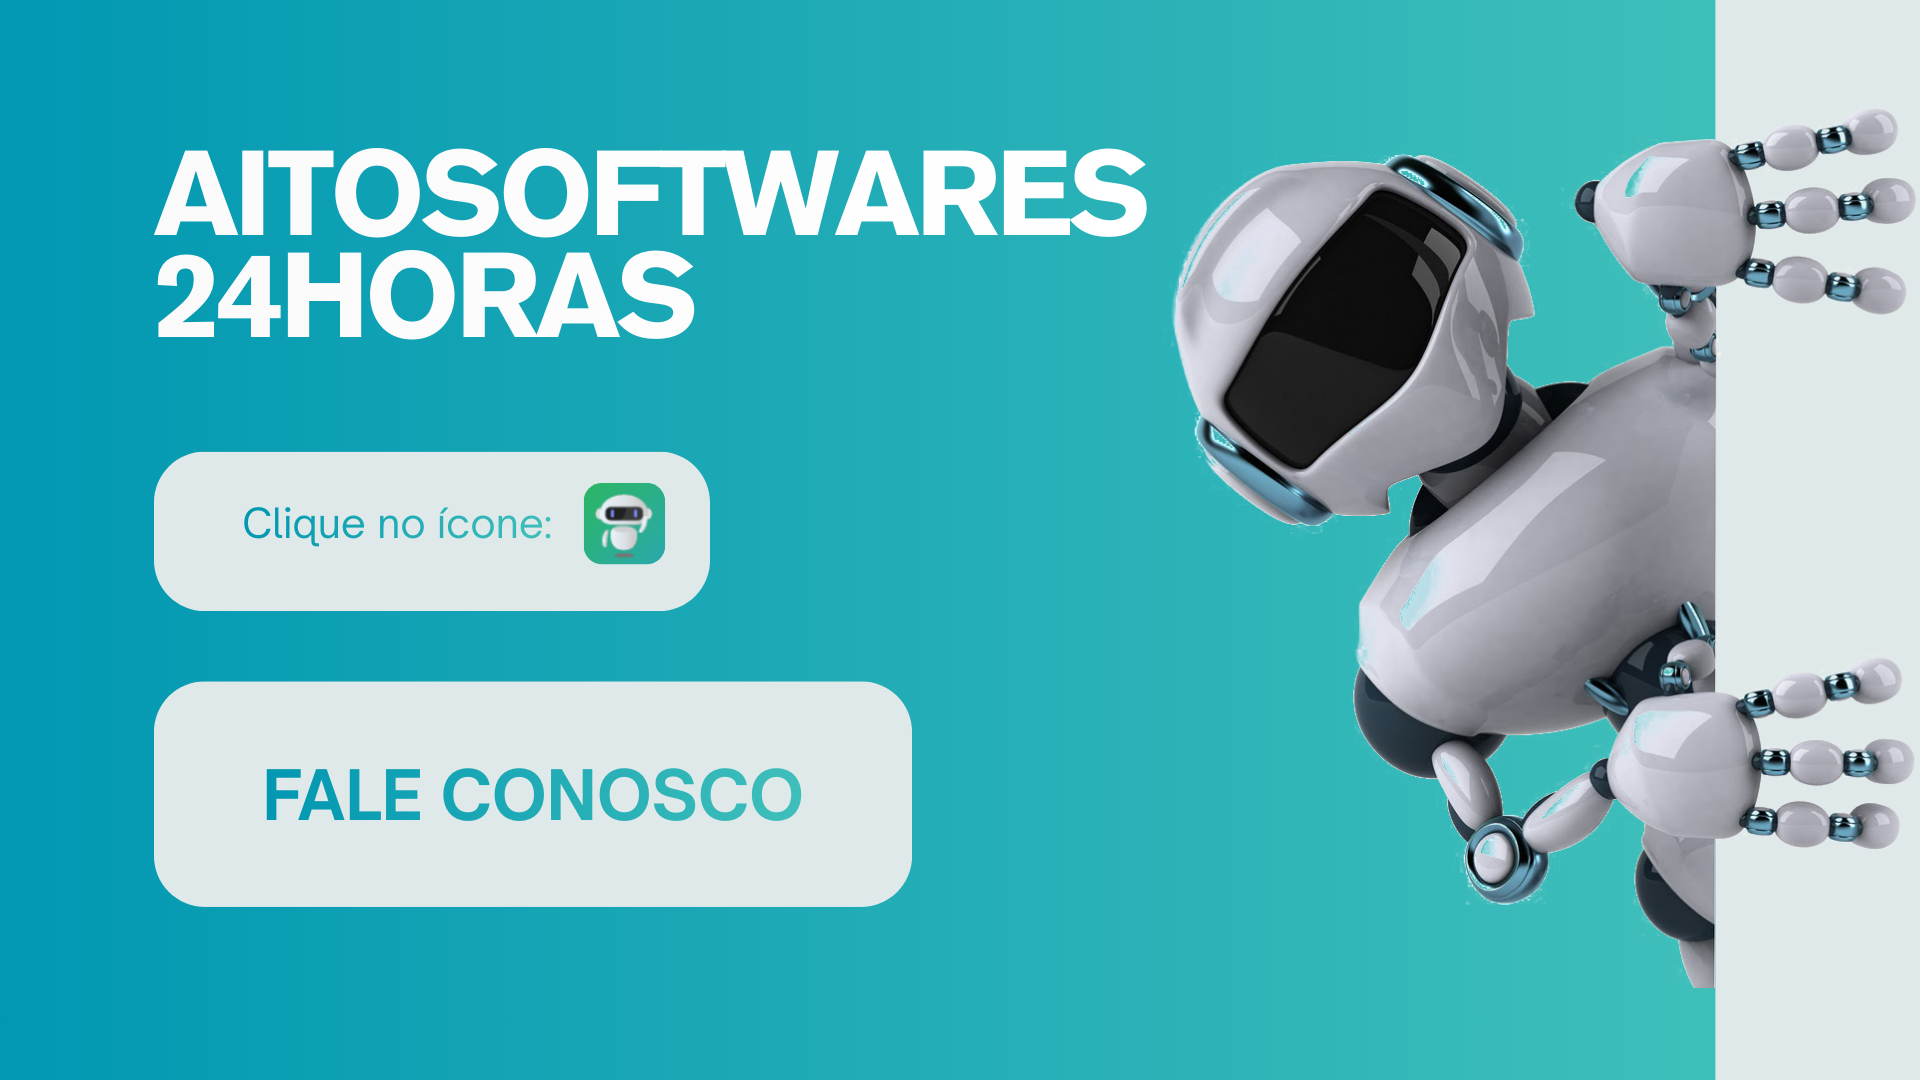
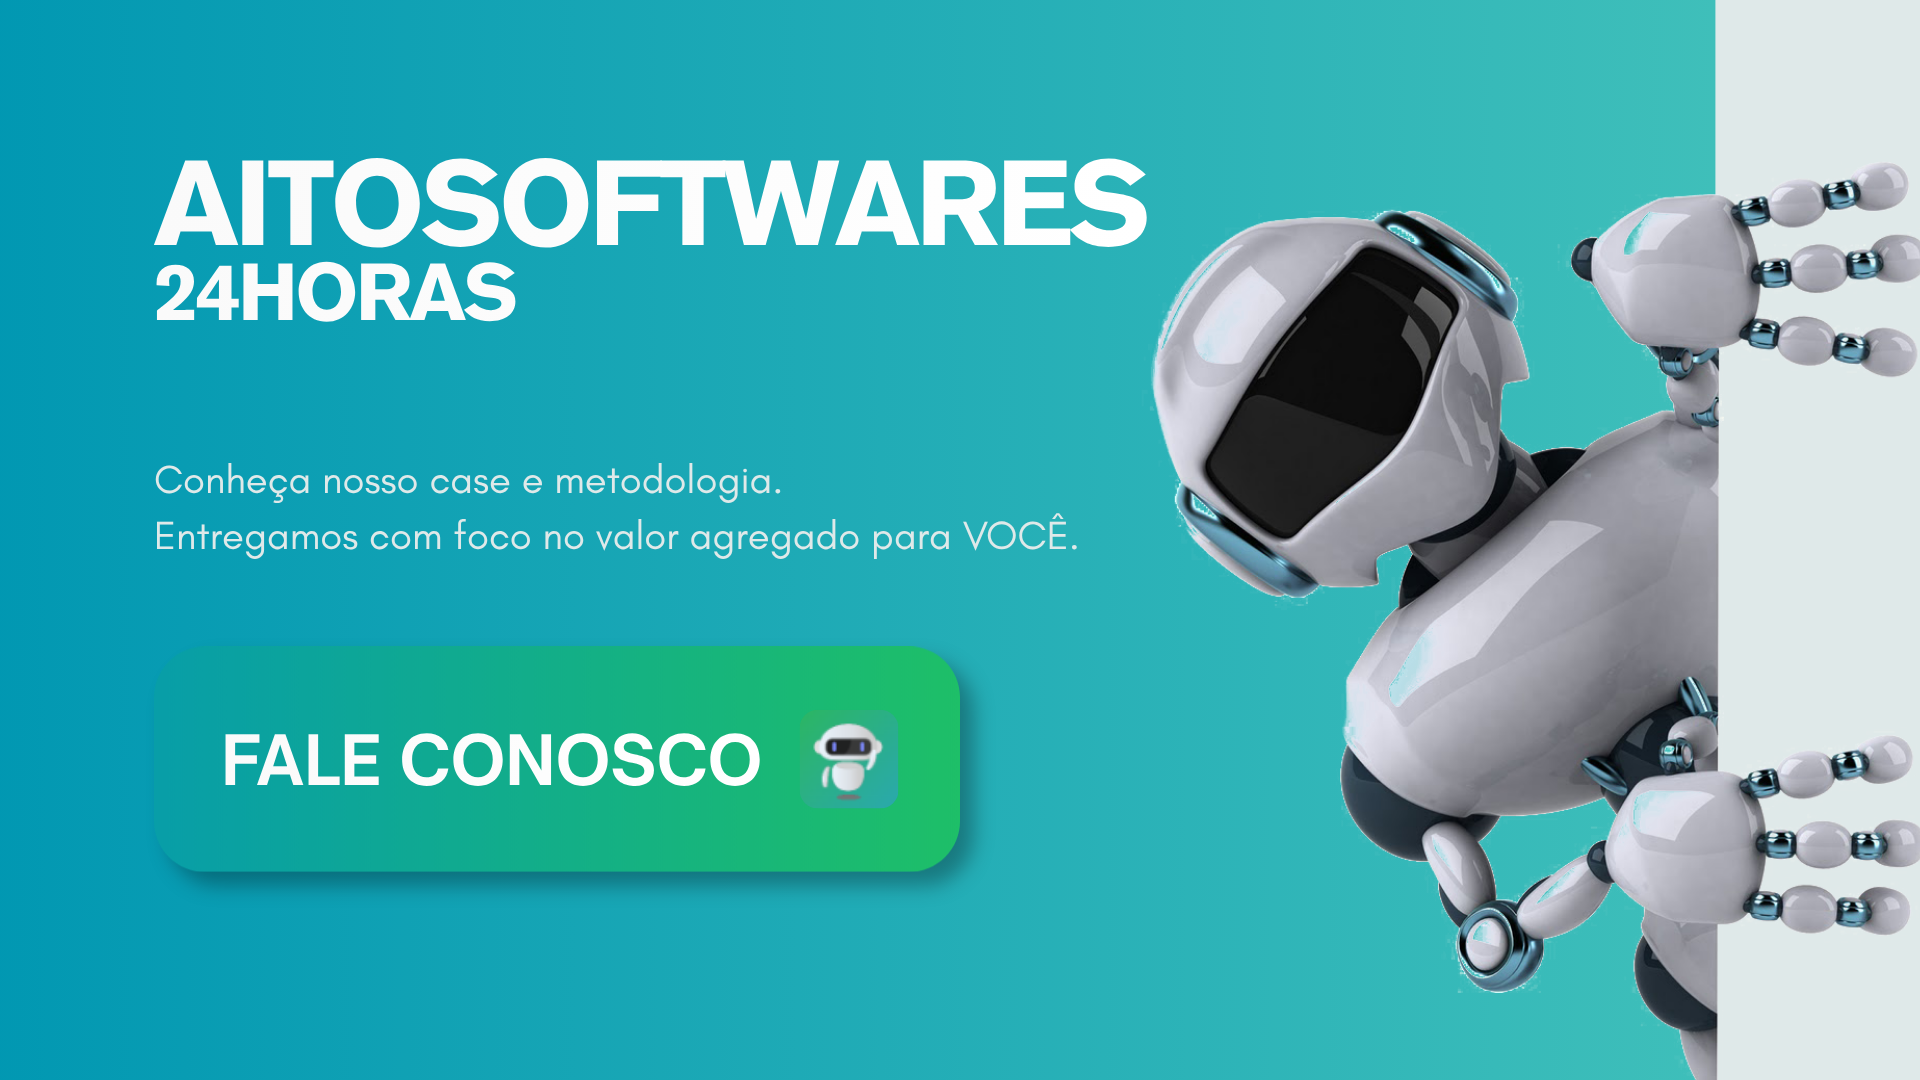
Update landing

diff --git a/src/layouts/MainLayout.vue b/src/layouts/MainLayout.vue
@@ -1,13 +1,13 @@
 <template>
-  <q-layout view="lHh Lpr lFf" class="ait-root">
+  <q-layout view="lHh Lpr lFf" class="ait-root ">
     <!-- HEADER (minimal, squared) -->
     <q-header elevated class="ait-header">
       <div class="ait-wrap">
         <div class="row items-center justify-between q-py-sm">
           <!-- Brand -->
-          <div class="row items-center no-wrap">
-            <q-btn flat dense round class="" @click="scrollTo('top')" aria-label="Topo">
-              <q-img src="/favicon.png" width="60px" height="34px" style="border-radius: 6px" />
+          <div class="row items-center no-wrap ">
+            <q-btn flat dense round class="animate__animated animate__fadeInLeft animate__slower animate__delay-1s" @click="scrollTo('top')" aria-label="Topo">
+              <q-img src="/favicon.png" width="60px" height="34px" style="border-radius: 6px" loading="lazy" />
             </q-btn>
             <div class="column">
               <div class="row items-center no-wrap">
@@ -29,12 +29,12 @@
               :icon="item.icon" :label="item.label" @click="handleNav(item)" />
             <q-separator vertical inset class="q-mx-md" />
             <q-btn unelevated no-caps class="ait-cta" icon="mdi-whatsapp" label="Diagnóstico grátis"
-              @click="openWhatsapp('Quero um diagnóstico grátis (custos, automação e IA).')" />
+              @click="openWhatsapp('Quero uma consultoria gratuita (custos, automação e IA).')" />
           </div>
 
           <!-- Mobile actions -->
           <div class="lt-md row items-center">
-            <q-btn unelevated no-caps class="ait-cta q-mr-sm" icon="mdi-whatsapp" label="Falar"
+            <q-btn unelevated no-caps class="ait-cta q-mr-sm" icon="mdi-whatsapp"
               @click="openWhatsapp()" />
             <q-btn flat round dense :icon="drawerOpen ? 'mdi-close' : 'mdi-menu'" @click="drawerOpen = !drawerOpen"
               aria-label="Menu" />
@@ -43,13 +43,13 @@
 
         <!-- Mobile menu -->
         <q-slide-transition>
-          <div v-if="drawerOpen" class="lt-md ait-mobile-menu q-mb-sm">
+          <div v-if="drawerOpen" class="lt-md  q-mb-sm">
             <q-btn v-for="item in navItems" :key="item.label + '-m'" flat dense no-caps
               class="full-width text-left ait-mobile-btn q-mb-xs" :icon="item.icon" :label="item.label"
               @click="handleNav(item, true)" />
             <q-btn unelevated no-caps class="full-width ait-cta q-mt-sm" icon="mdi-whatsapp"
               label="Agendar diagnóstico grátis"
-              @click="openWhatsapp('Quero agendar um diagnóstico grátis.'); drawerOpen = false" />
+              @click="openWhatsapp('Quero agendar uma consultoria gratuita.'); drawerOpen = false" />
           </div>
         </q-slide-transition>
       </div>
@@ -84,7 +84,7 @@
                       <!-- <iframe v-if="vslUrl" :src="vslUrl" title="VSL AITO" frameborder="0"
                         allow="accelerometer; autoplay; clipboard-write; encrypted-media; gyroscope; picture-in-picture"
                         allowfullscreen class="ait-iframe" /> -->
-                      <q-img src="/vsl.png" fit="cover" class="ait-iframe rounded-borders" />
+                      <q-img @click="iaChat = true" src="/vsl.png" fit="cover" class="animate__animated animate__fadeInRight animate__slower animate__delay-2s ait-iframe cursor-pointer rounded-borders" />
                       <!-- <div  class="ait-video-placeholder">
                         <q-icon name="mdi-play" size="56px" class="text-grey-9" />
                         <div class="text-body2 text-grey-8 q-mt-sm text-center">
@@ -96,17 +96,17 @@
 
                     <div class="row q-col-gutter-sm q-mt-sm">
                       <div class="col-12 col-sm-6">
-                        <q-btn unelevated no-caps class="ait-cta full-width" icon="mdi-whatsapp"
+                        <q-btn unelevated no-caps class="animate__animated animate__fadeInUp animate__slower animate__delay-2s  ait-cta full-width" icon="mdi-whatsapp"
                           label="Quero reduzir custos"
                           @click="openWhatsapp('Quero reduzir custos com tecnologia (cloud/automação/IA).')" />
                       </div>
                       <div class="col-12 col-sm-6">
-                        <q-btn outline no-caps class="ait-outline full-width" icon="mdi-briefcase-outline"
+                        <q-btn outline no-caps class="animate__animated animate__fadeInUp animate__slower animate__delay-3s  ait-outline full-width" icon="mdi-briefcase-outline"
                           label="Ver cases" @click="scrollTo('cases')" />
                       </div>
                     </div>
 
-                    <div class="ait-microproof q-mt-sm">
+                    <div class="ait-microproof animate__animated animate__slideInLeft animate__slower animate__delay-3s   q-mt-sm">
                       <q-icon name="mdi-check-circle-outline" class="q-mr-xs" />
                       Diagnóstico gratuito • Contrato claro • Entrega por etapas • Suporte real
                     </div>
@@ -115,7 +115,7 @@
               </div>
 
               <!-- Copy -->
-              <div class="ait-copy">
+              <div class="ait-copy animate__animated animate__slideInUp animate__slower animate__delay-3s">
                 <!-- <div class="ait-kicker">
                   <q-icon name="mdi-lightning-bolt-outline" size="18px" class="q-mr-xs" />
                   Engenharia aplicada ao seu resultado
@@ -454,7 +454,7 @@
 
                         <div class="row items-center q-mt-sm">
                           <q-icon name="mdi-post-outline" class="q-mr-sm" />
-                          <q-btn flat dense no-caps label="Ir para o Blog" @click="goBlog" />
+                          <!-- <q-btn flat dense no-caps label="Ir para o Blog" @click="goBlog" /> -->
                         </div>
                       </div>
                     </div>
@@ -557,10 +557,10 @@
                             <q-btn unelevated no-caps class="ait-cta full-width" icon="mdi-whatsapp"
                               label="Enviar indicação" type="submit" />
                           </div>
-                          <div class="col-12 col-sm-5">
+                          <!-- <div class="col-12 col-sm-5">
                             <q-btn outline no-caps class="ait-outline full-width" icon="mdi-post-outline"
                               label="Ver blog" @click="goBlog" />
-                          </div>
+                          </div> -->
                         </div>
                       </q-form>
                     </div>
@@ -583,7 +583,7 @@
                 </div>
                 <div class="text-caption text-grey-6 q-mt-sm">
                   <q-icon name="mdi-map-marker-outline" class="q-mr-xs" />
-                  Valparaíso de Goiás • DF • Goiânia • Remoto (Brasil)
+                  Distrito Federal e Entorno • Projetos Remotos (Brasil)
                 </div>
               </div>
 
@@ -598,7 +598,7 @@
         </div>
 
         <!-- IA FAB (mantém IAChatComponent) -->
-        <q-btn round class="ait-ia-fab" @click="iaChat = !iaChat" aria-label="Abrir IA">
+        <q-btn round class="ait-ia-fab animate__animated animate__zoomIn animate__slower animate__delay-3s " @click="iaChat = !iaChat" aria-label="Abrir IA">
           <q-img src="/ia.gif" width="70px" alt="IA atendimento" />
         </q-btn>
 
@@ -643,7 +643,7 @@ const navItems = [
   { label: 'Satisfação', icon: 'mdi-star-outline', type: 'scroll', target: 'satisfacao' },
   { label: 'Founders', icon: 'mdi-account-group-outline', type: 'scroll', target: 'founders' },
   { label: 'Contato', icon: 'mdi-email-fast-outline', type: 'scroll', target: 'contato' },
-  { label: 'Blog', icon: 'mdi-post-outline', type: 'route', to: '/blog' }
+  // { label: 'Blog', icon: 'mdi-post-outline', type: 'route', to: '/blog' }
 ]
 
 const steps = [
@@ -795,7 +795,7 @@ const brandItems = [
   { name: 'Coco Bambu', imgUrl: 'https://mir-s3-cdn-cf.behance.net/projects/404/a87f35210460461.Y3JvcCwxMjMxLDk2MywzNjIsNDU.png' },
   { name: 'TJGO', imgUrl: 'https://tjgo.4biz.globalweb.com.br/4biz/logoImages/44.png' },
   { name: 'ChatCar IA', imgUrl: 'https://chatcar.me/logo.jpeg' },
-  { name: 'Cast Group', imgUrl: 'https://upbase.com.br/wp-content/uploads/2023/10/maxresdefault.jpg' },
+  { name: 'AWS', imgUrl: 'https://upload.wikimedia.org/wikipedia/commons/f/fc/Amazon_Web_Services_2025.svg' },
   { name: 'Sinerji', imgUrl: 'https://media.glassdoor.com/sqll/7882017/sinerji-brazil-squarelogo-1665494683816.png' }
 ]
 
@@ -919,7 +919,7 @@ onMounted(() => {
 
 /* header */
 .ait-header {
-  background: rgba(255, 255, 255, 0.92);
+  background: rgba(255, 255, 255, 0.493);
   backdrop-filter: blur(10px);
   border-bottom: 1px solid rgba(15, 23, 42, 0.08);
   color: #0b0d12;
@@ -952,7 +952,7 @@ onMounted(() => {
 /* mobile menu */
 .ait-mobile-menu {
   border: 1px solid rgba(15, 23, 42, 0.10);
-  background: rgba(255, 255, 255, 0.96);
+  background: rgba(255, 255, 255, 0.158);
   border-radius: 10px;
   padding: 10px;
 }

diff --git a/index.html b/index.html
@@ -13,7 +13,7 @@
   <meta name="msapplication-tap-highlight" content="no">
   <meta name="viewport"
     content="user-scalable=no, initial-scale=1, maximum-scale=1, minimum-scale=1, width=device-width<% if (ctx.mode.cordova || ctx.mode.capacitor) { %>, viewport-fit=cover<% } %>">
-
+  <link rel="stylesheet" href="https://cdnjs.cloudflare.com/ajax/libs/animate.css/4.1.1/animate.min.css" />
   <link rel="icon" type="image/png" sizes="128x128" href="favicon.png">
   <link rel="icon" type="image/png" sizes="96x96" href="favicon.png">
   <link rel="icon" type="image/png" sizes="32x32" href="favicon.png">
